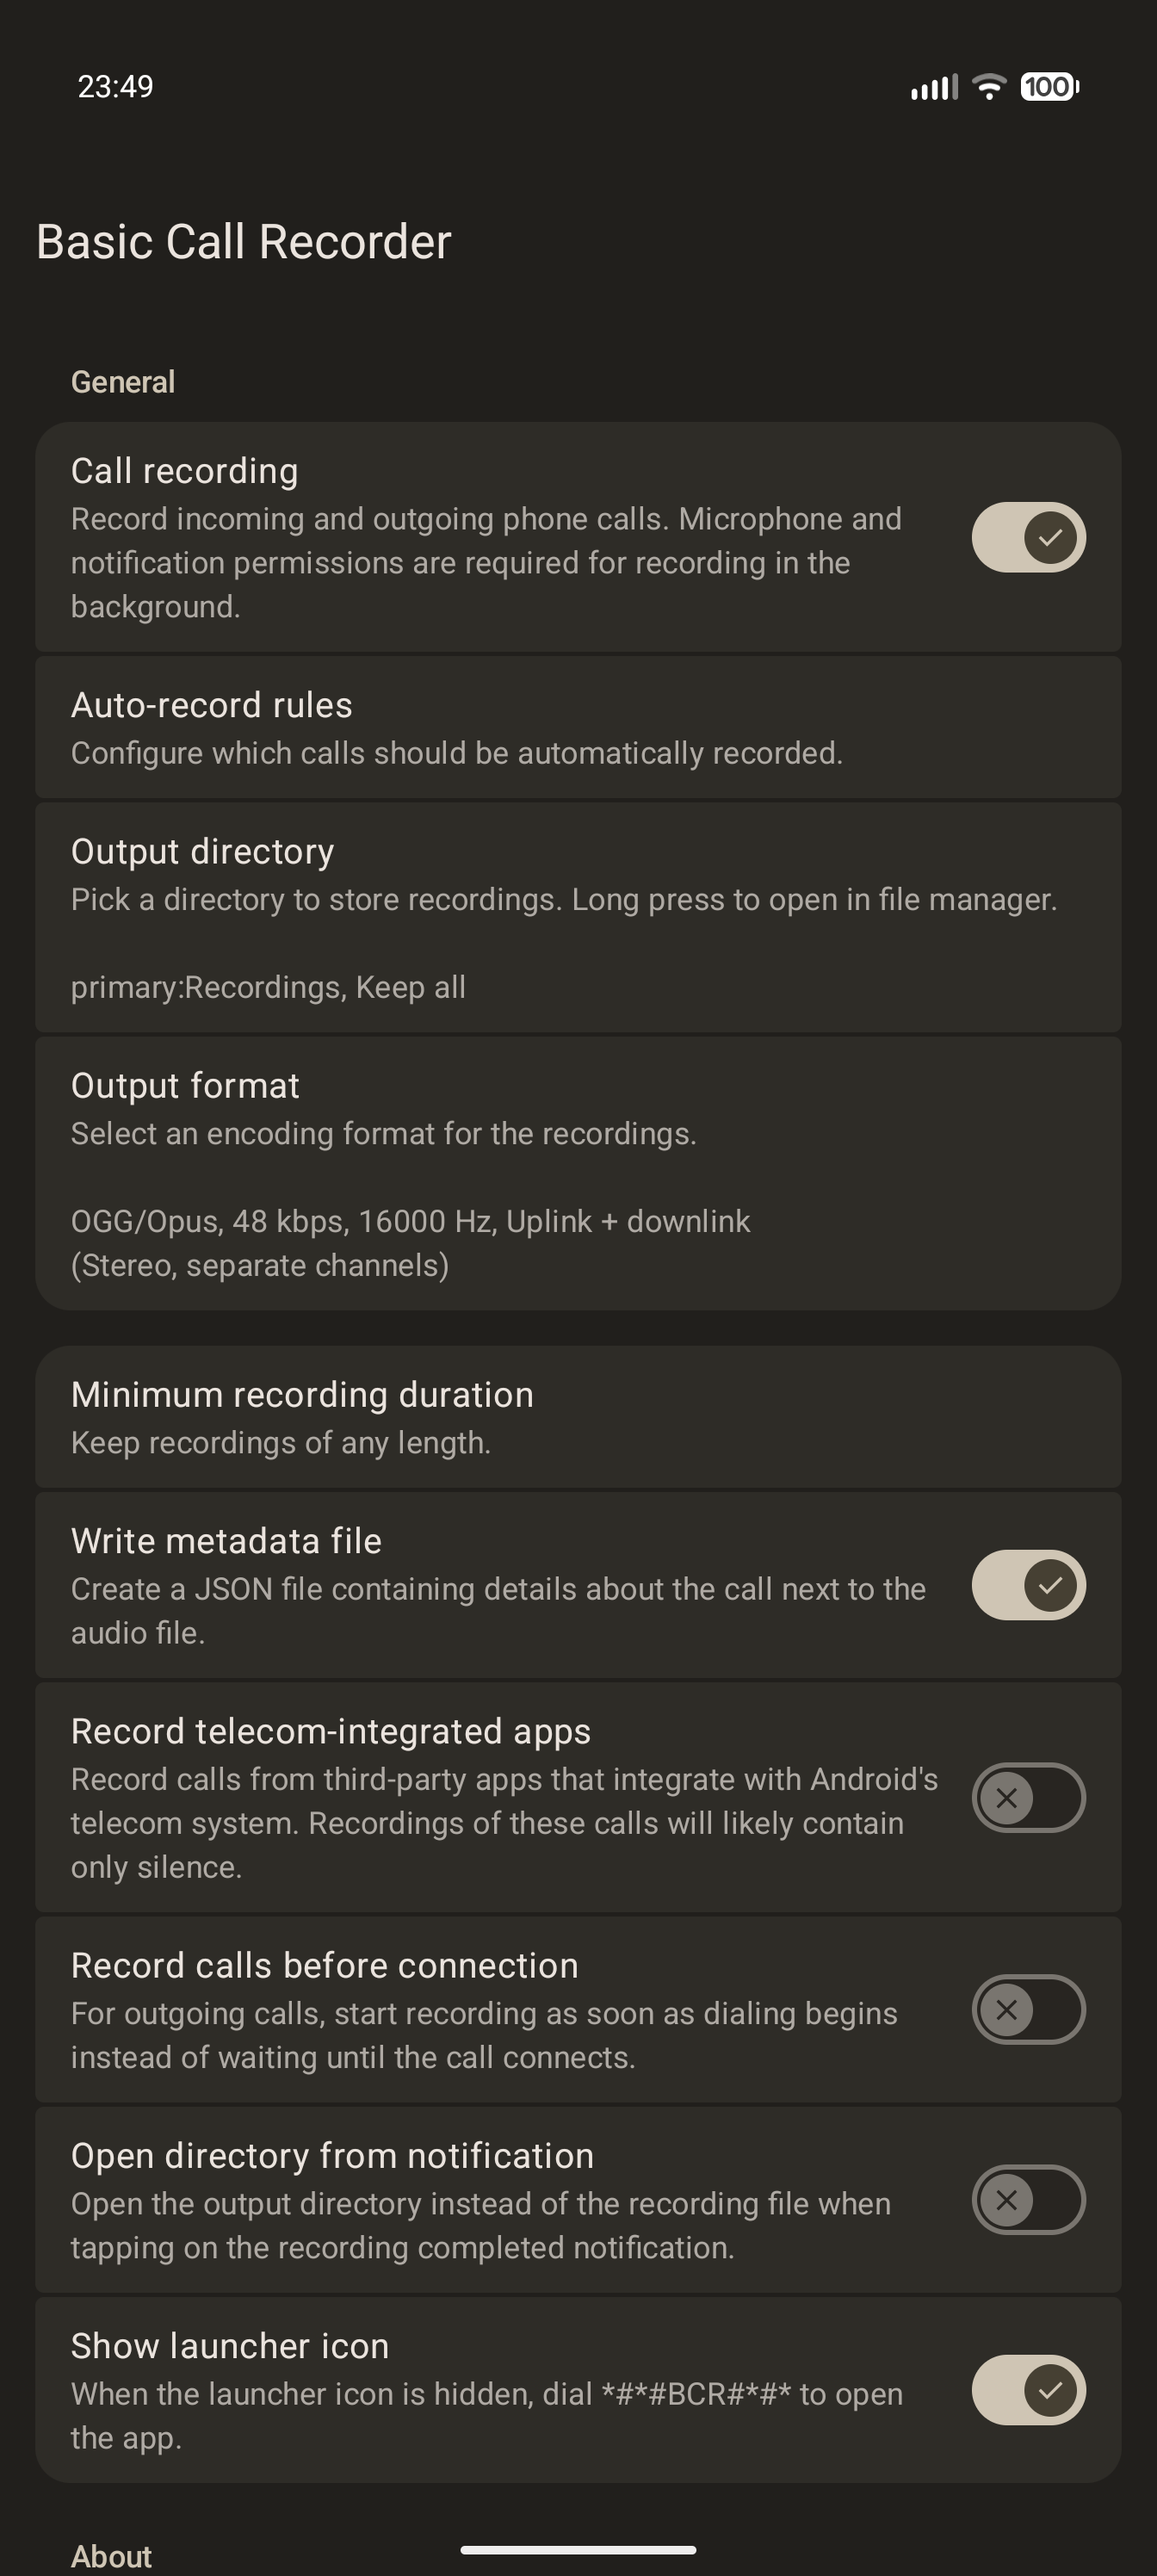
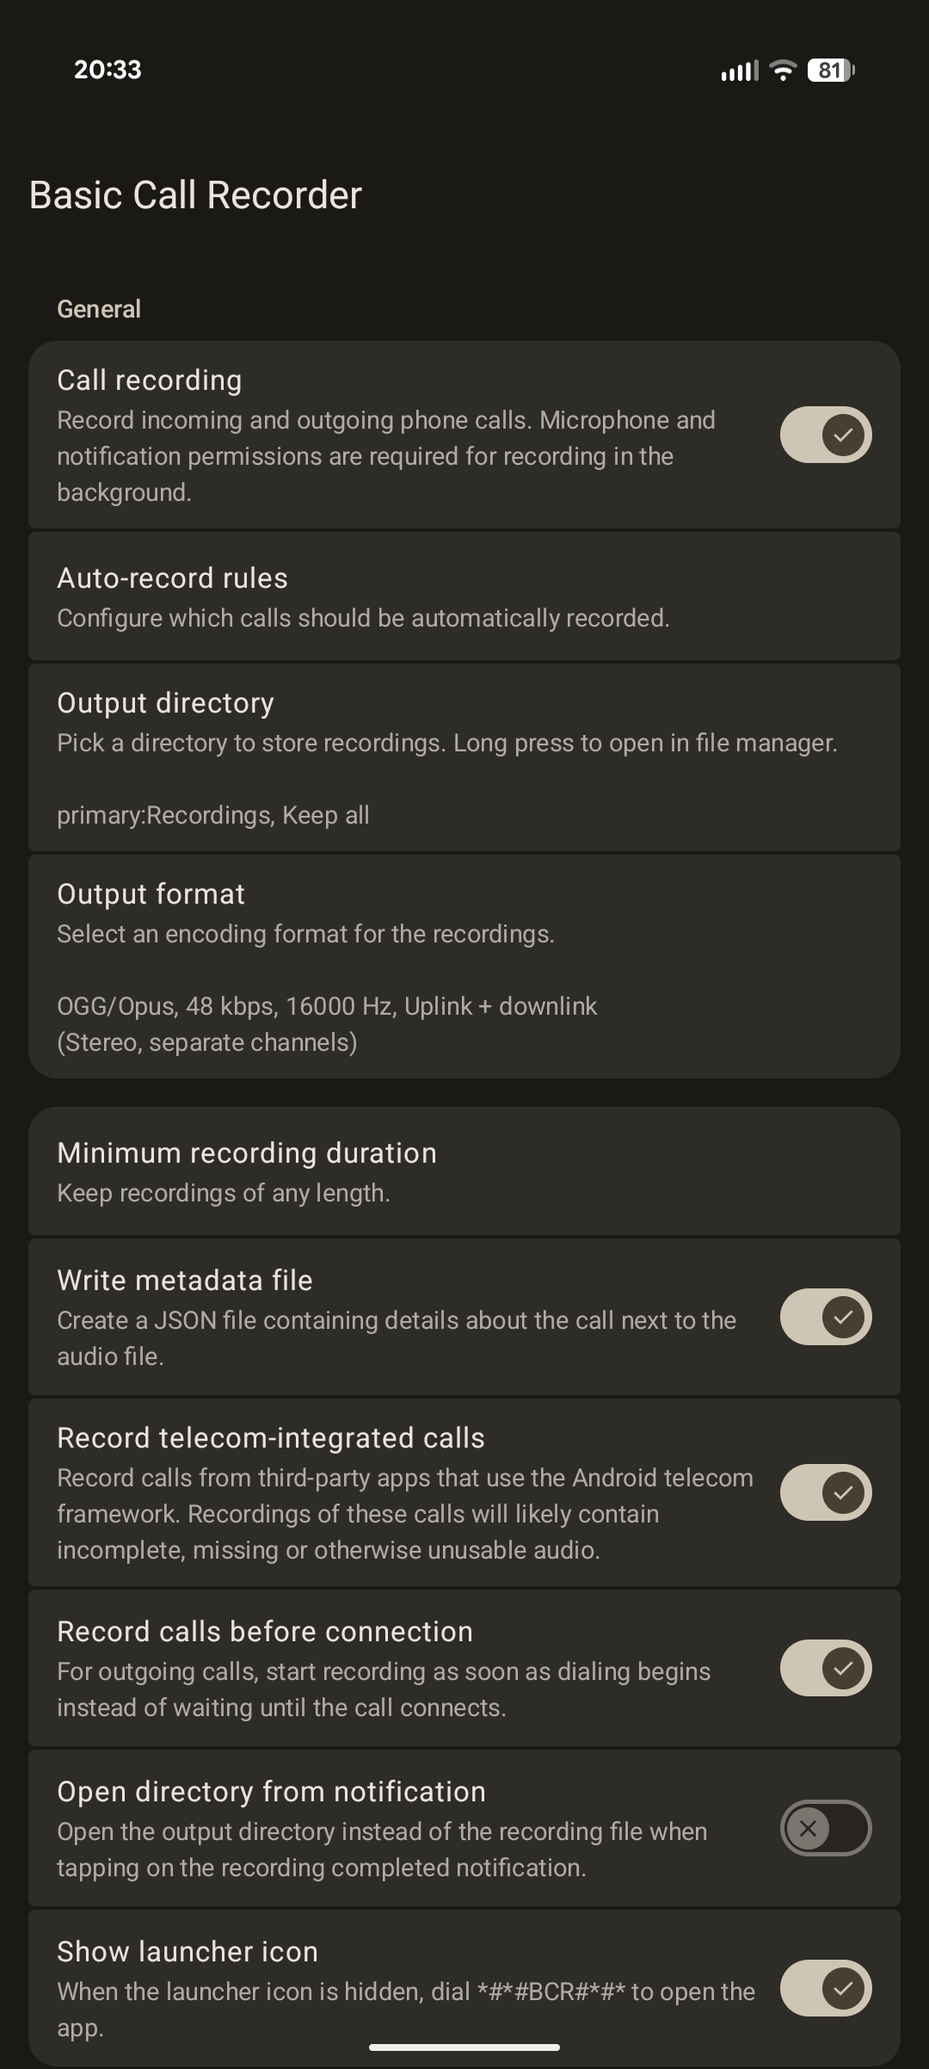
Version 3.12

diff --git a/CHANGELOG.md b/CHANGELOG.md
@@ -7,7 +7,7 @@
     to update the actual links at the bottom of the file.
 -->
 
-### Unreleased
+### Version 3.12
 
 * Add Brazilian Portuguese translations ([PR #974 @VictorGabriel7Dev])
 * Update dependencies ([PR #975 @chenxiaolong])
